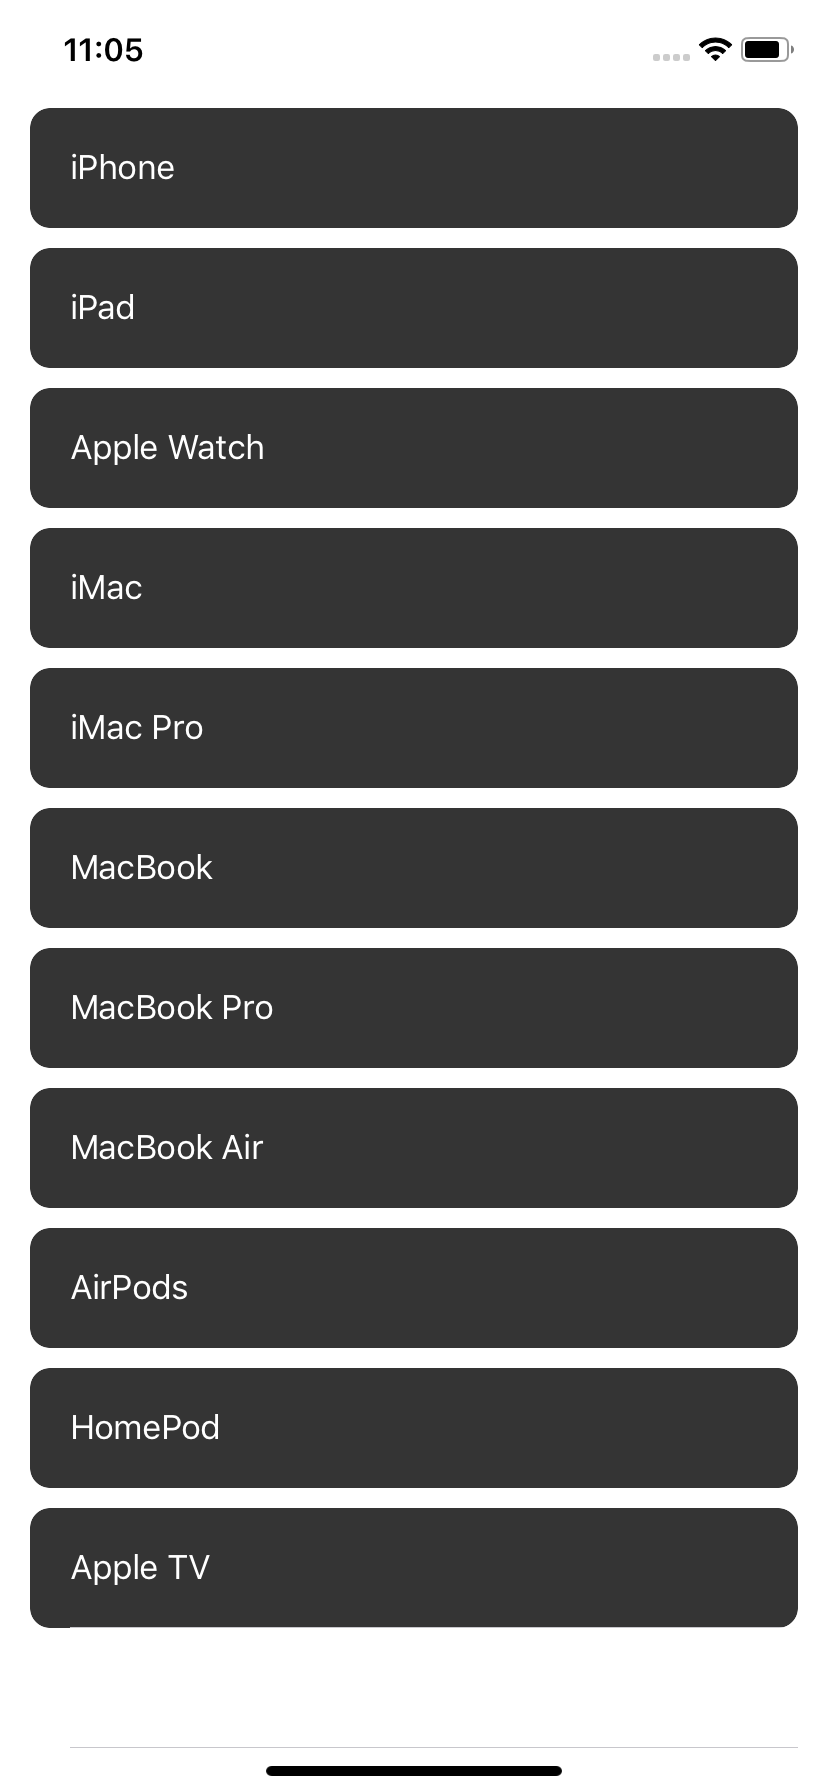
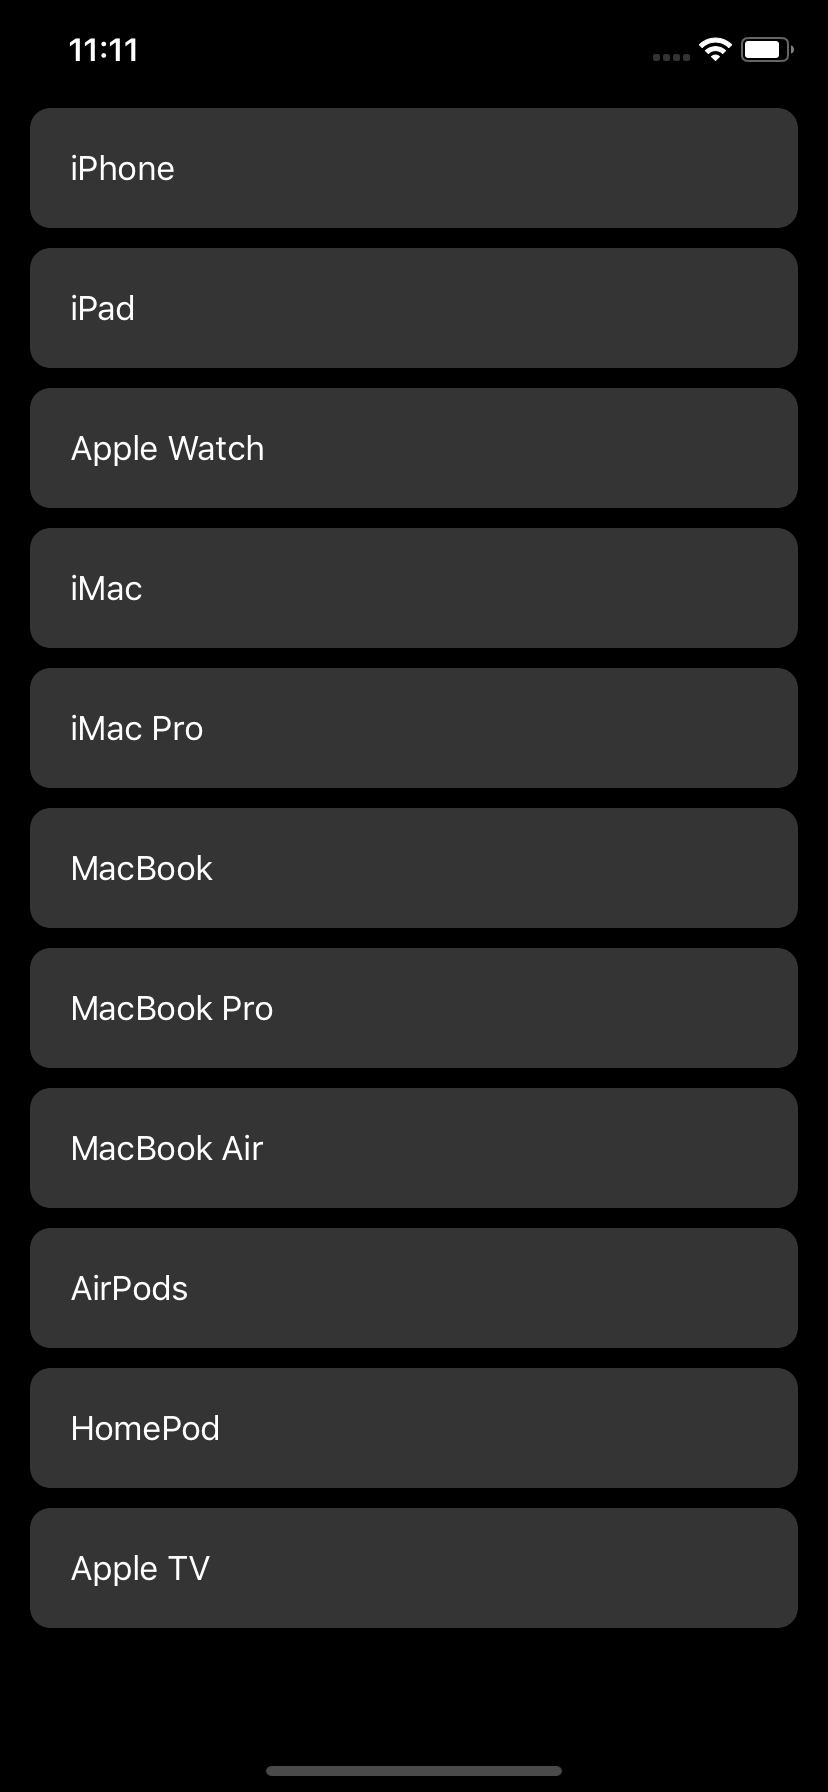
updated contrast for better viewing

diff --git a/table view bubble/TableViewController.swift b/table view bubble/TableViewController.swift
@@ -19,6 +19,10 @@ class TableViewController: UIViewController, UITableViewDataSource, UITableViewD
 		self.tableView.delegate = self
 		self.tableView.dataSource = self
     }
+	
+	override var preferredStatusBarStyle: UIStatusBarStyle {
+		return .lightContent
+	}
 
     // MARK: - Table view data source
 	func numberOfSections(in tableView: UITableView) -> Int {
